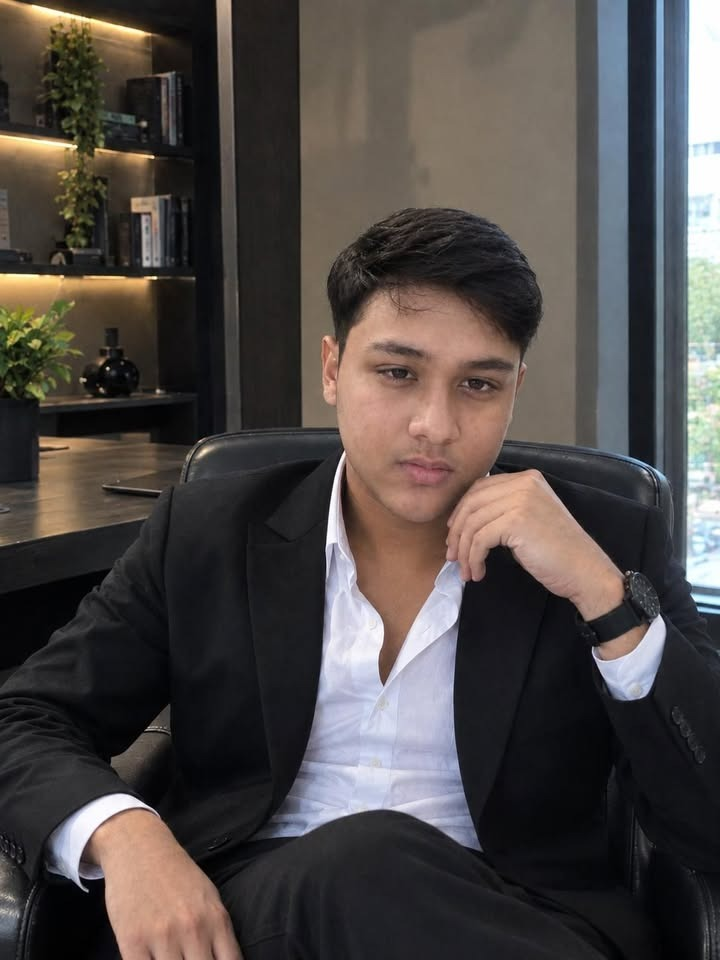
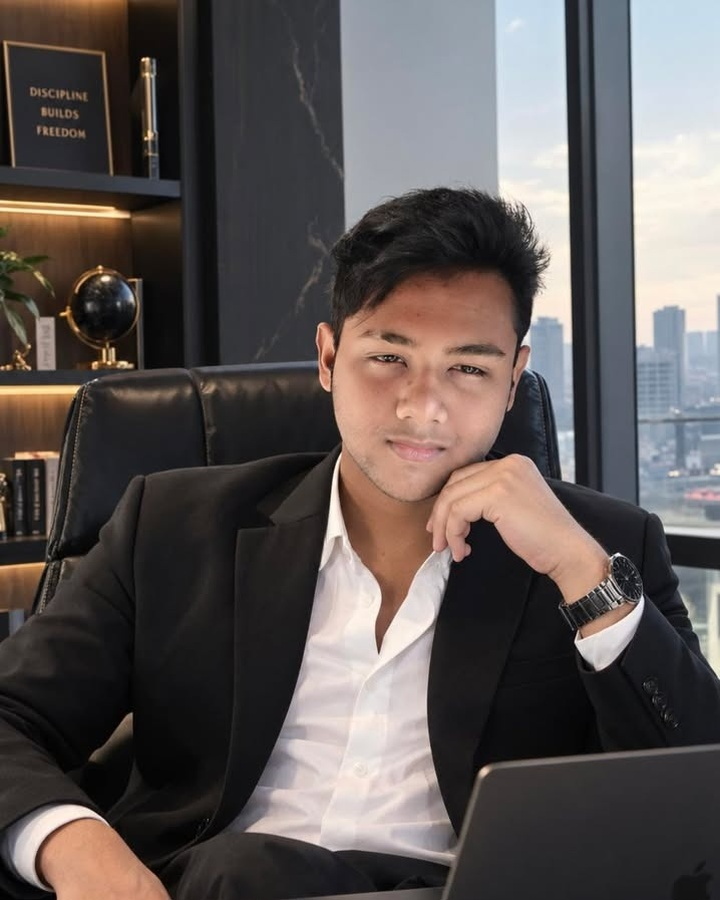
Update Ryan Zannah portrait to 4:5 editorial ratio

diff --git a/src/data/team.ts b/src/data/team.ts
@@ -20,7 +20,7 @@ export const TEAM: TeamMember[] = [
     category: 'Leadership',
     initials: 'RZ',
     image: '/team/ryan-zannah.jpg',
-    objectPosition: '55% 25%',
+    objectPosition: '52% 20%',
   },
   {
     id: 'tam-zayn',
